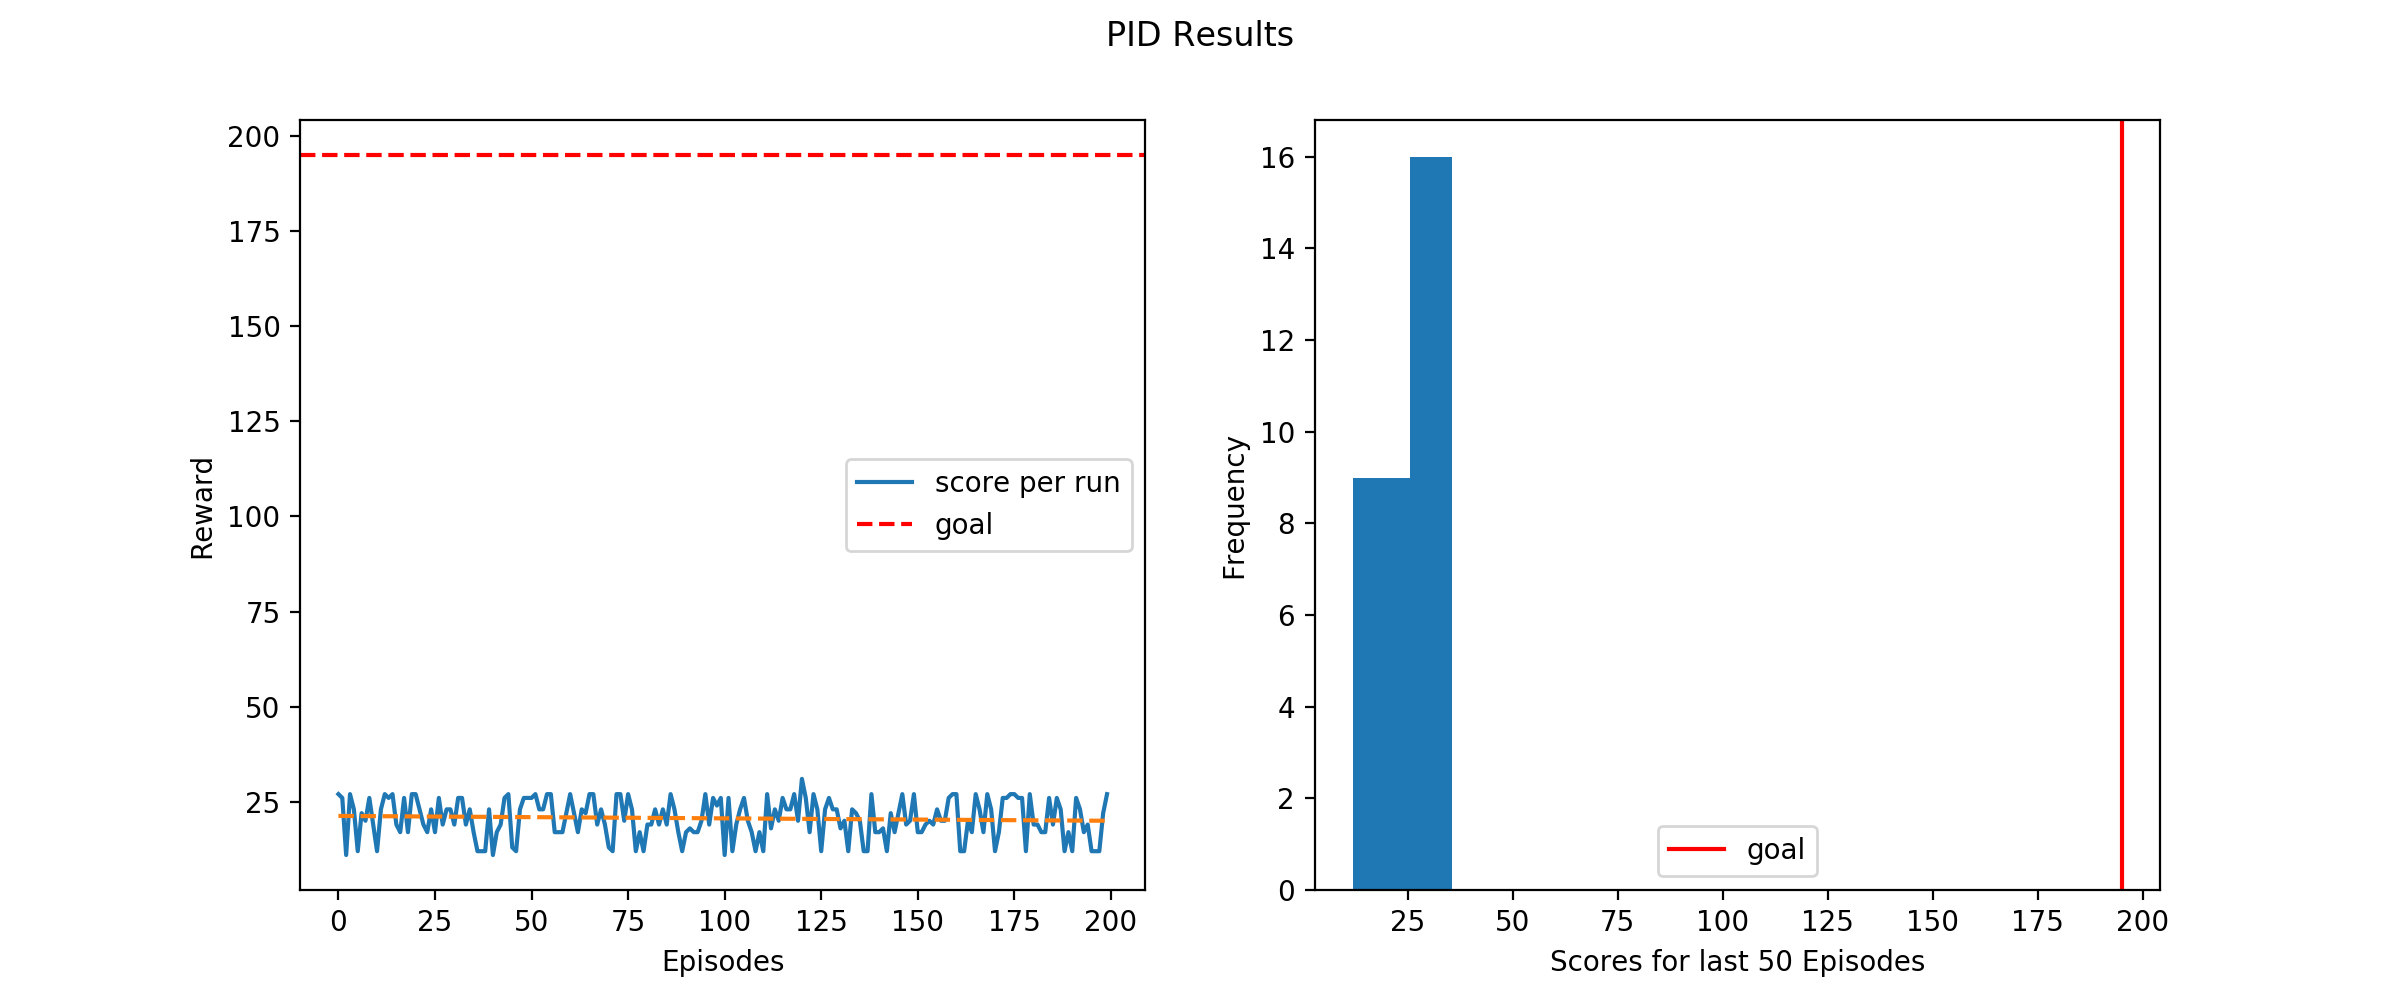
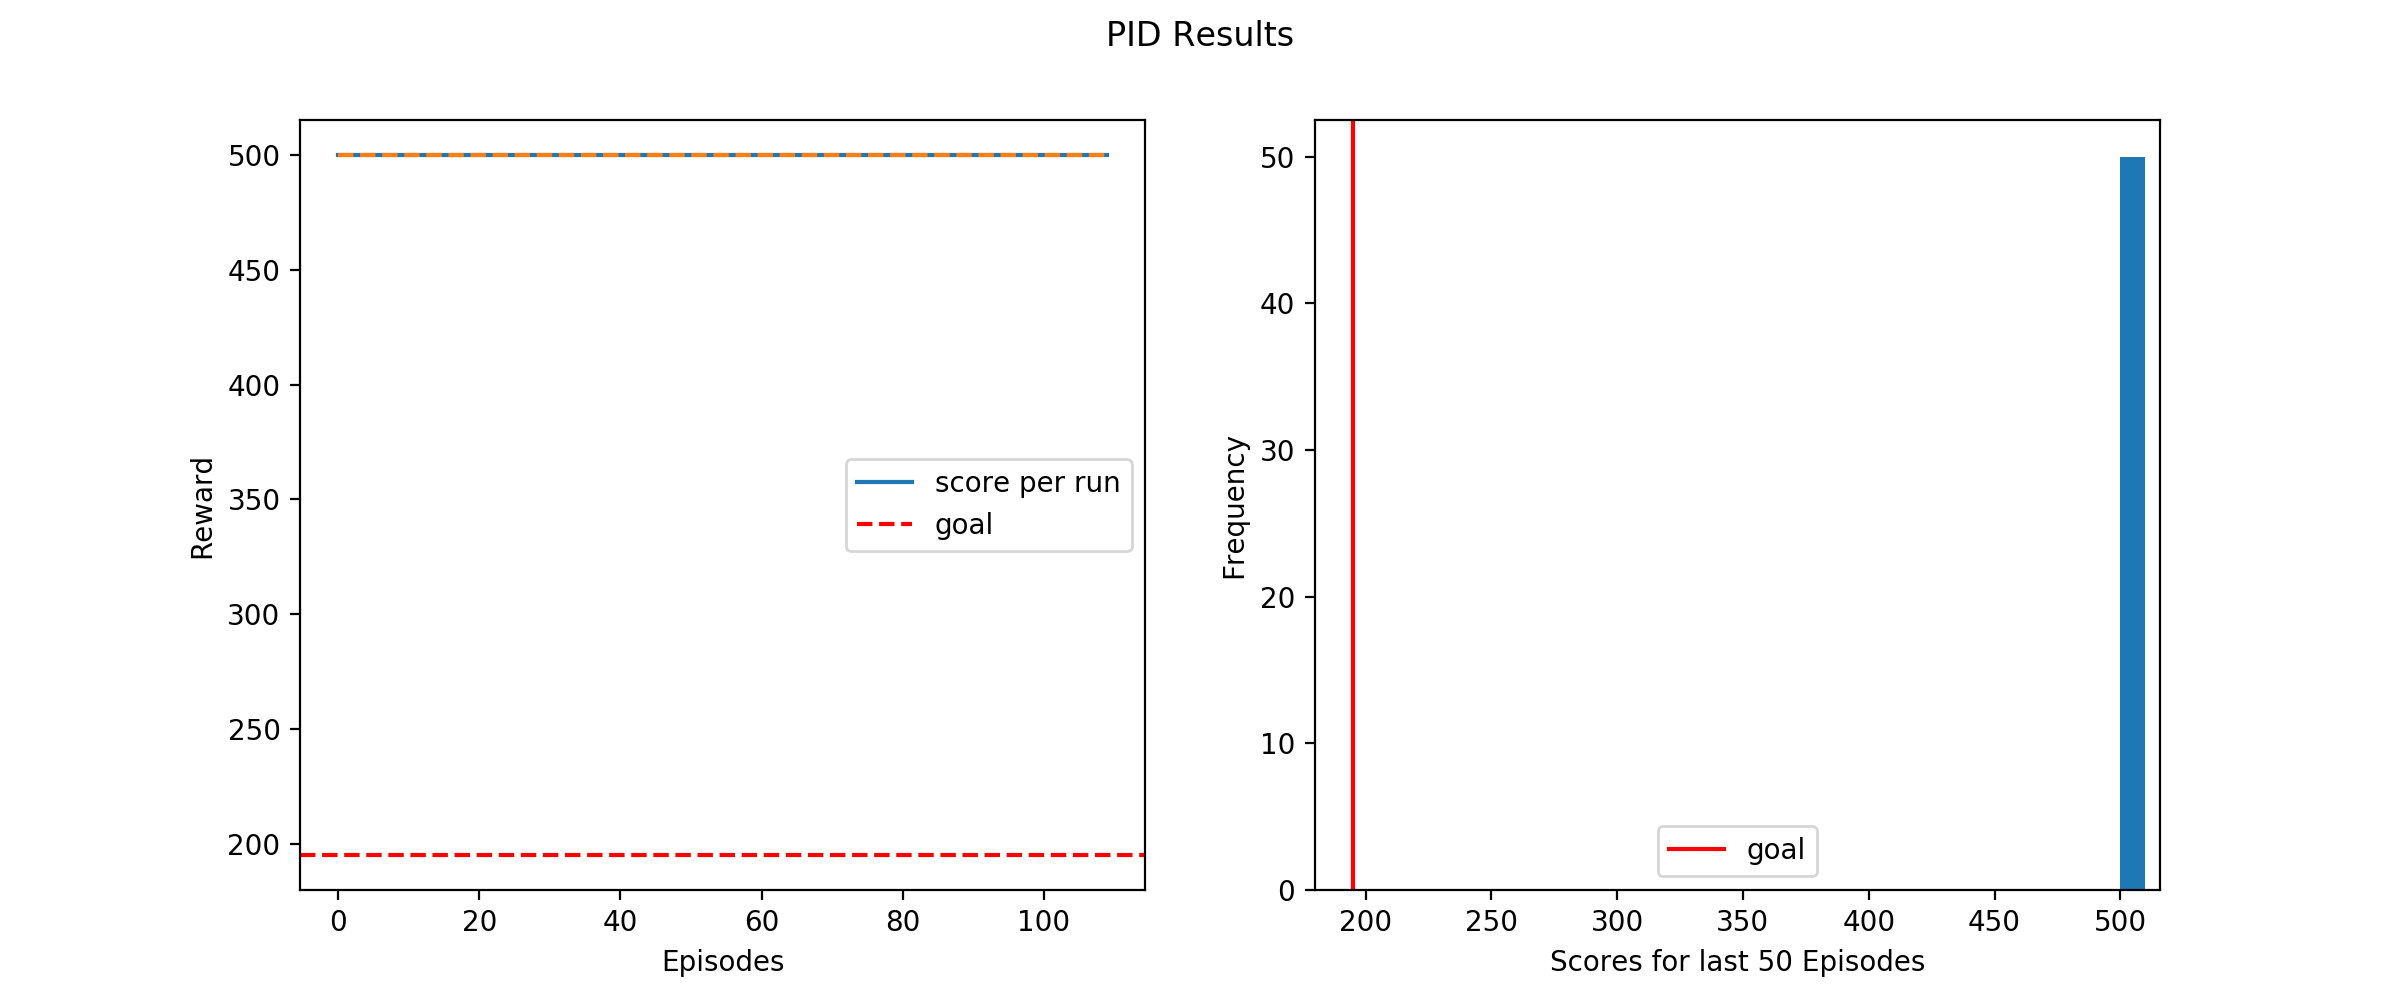
updated to have 110 iterations

diff --git a/algorithms/PIDController.py b/algorithms/PIDController.py
@@ -11,7 +11,7 @@ import pandas as pd
 def sigmoid(x):
     return 1 / (1 + np.exp(-x))
 
-def gradient_descent(learning_rate = 0.05, epochs = 200, episodes=200):
+def gradient_descent(learning_rate = 0.05, epochs = 200, episodes=110):
     best_pid = None
     total_reward = 0
     av_reward = 0
@@ -52,7 +52,7 @@ def gradient_descent(learning_rate = 0.05, epochs = 200, episodes=200):
                 av_reward = reward["av_reward"]
                 episode = reward["episode"]
                 final = reward["final"]
-                
+                time_taken += reward["convergence_time"]
             prev_reward = reward
             if reward["total_reward"] >=  500:
                 break
@@ -60,11 +60,8 @@ def gradient_descent(learning_rate = 0.05, epochs = 200, episodes=200):
             if len(history) > 100 and np.array_equal(np.gradient(history[len(history)-100:]), [0 for i in range(100)]):
                 break
             history.append(reward["total_reward"])
-    end_time = time.time()
-    time_taken = end_time - start_time
     plot_results(final)
     get_results(total_reward, episode, av_reward, time_taken)
-    return final
           
 def get_results(total_reward, ep, av_reward, time_taken):
     minutes = time_taken/60
@@ -108,7 +105,7 @@ def plot_results(values):
     plt.show()
 
 
-def pid(P, I, D, episodes=200): 
+def pid(P, I, D, episodes=110): 
     cartpole_env = gym.make('CartPole-v1')
     cartpole_env._max_episode_steps = 500
     cartpole_env.seed(7)
@@ -117,6 +114,9 @@ def pid(P, I, D, episodes=200):
     total_reward = 0
     final = []
     reward_count = 0
+    agent_converged = False
+    convergence_time = 0
+    start_time = time.time()
 
     goal_state = np.array([0, 0, 0, 0])
     for episode in range(episodes):
@@ -140,31 +140,28 @@ def pid(P, I, D, episodes=200):
         
         final.append(total_reward)
         
-        if len(final) > 100:
+        if len(final) > 100 and not agent_converged:
             if np.mean(final[-100:]) >= 195:
+                agent_converged = True
                 av_reward = sum(final)/(episode+1)
-                cartpole_env.close()
-                return {
-                    "total_reward": total_reward,
-                    "error": error,
-                    "episode": episode+1,
-                    "av_reward": av_reward,
-                    "final": final,
-                }
+                end_time = time.time()
+                convergence_time = end_time - start_time
 
-    av_reward = sum(final)/(episode+1)
+    if not agent_converged:
+        av_reward = sum(final)/(episode+1)
+        end_time = time.time()
+        convergence_time = end_time - start_time
+    
     cartpole_env.close()
     return {
         "total_reward": total_reward,
         "error": error,
         "episode": episode+1,
         "av_reward": av_reward,
-        "final": final
+        "final": final,
+        "convergence_time": convergence_time
     }
+    
 
-def main():
-    gradient_descent()
-
-if __name__ == "__main__":
-    main()
+gradient_descent()
 
